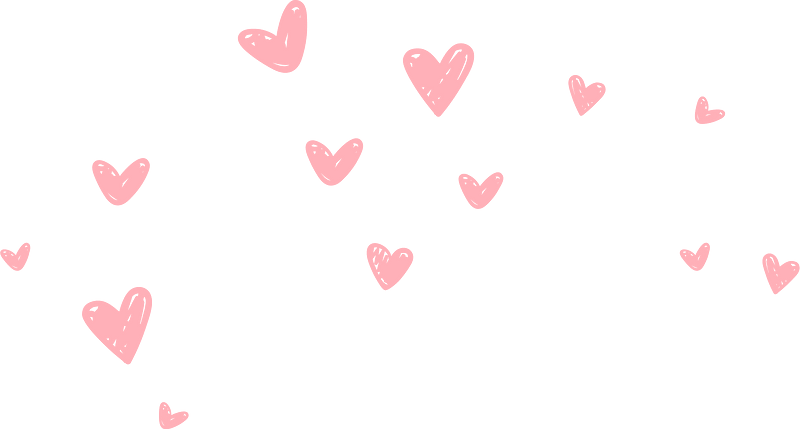
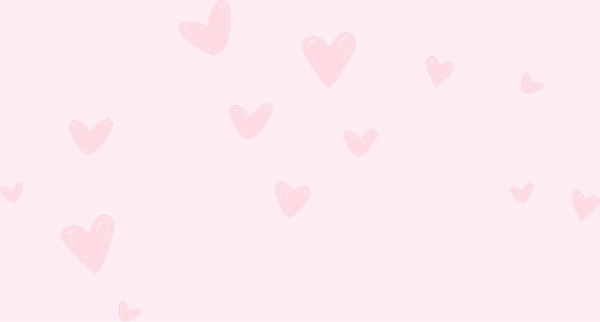
feat: change background way and add date to the counter

diff --git a/src/App.tsx b/src/App.tsx
@@ -8,33 +8,30 @@ export function App() {
       className="flex flex-col items-center h-screen px-10 py-10 bg-repeat-round bg-size-[600px]"
       style={{ backgroundImage: `url(${background})` }}
     >
-      <div className="fixed top-0 left-0 w-full h-full bg-primary-100 opacity-80"></div>
-      <div className="z-10">
-        <h1 className="text-2xl font-bold text-center text-primary-500/70 leading-none">
-          Nosso Contador
-        </h1>
-        <h2 className="text-5xl mb-10 text-center text-primary-500 leading-none font-bold">
-          Natalia&Iran
-        </h2>
+      <h1 className="text-2xl font-bold text-center text-primary-500/70 leading-none z-10">
+        Nosso Contador
+      </h1>
+      <h2 className="text-5xl mb-10 text-center text-primary-500 leading-none font-bold -mt-2">
+        Natalia&Iran
+      </h2>
 
-        <div className="flex flex-col gap-5">
-          <Counter
-            title="Pedido de Namoro"
-            startDate={new Date("2025-05-02T23:05:00")}
-          />
-          <Counter
-            title="Primeiro Beijo"
-            startDate={new Date("2025-04-13T00:30:00")}
-          />
-          <Counter
-            title="Primeiro Encontro"
-            startDate={new Date("2025-04-12T20:30:00")}
-          />
-          <Counter
-            title="Primeira Mensagem"
-            startDate={new Date("2025-03-28T23:36:00")}
-          />
-        </div>
+      <div className="flex flex-col gap-8">
+        <Counter
+          title="Pedido de Namoro"
+          startDate={new Date("2025-05-02T23:05:00")}
+        />
+        <Counter
+          title="Primeiro Beijo"
+          startDate={new Date("2025-04-13T00:30:00")}
+        />
+        <Counter
+          title="Primeiro Encontro"
+          startDate={new Date("2025-04-12T20:30:00")}
+        />
+        <Counter
+          title="Primeira Mensagem"
+          startDate={new Date("2025-03-28T23:36:00")}
+        />
       </div>
     </div>
   );

diff --git a/src/components/Counter.tsx b/src/components/Counter.tsx
@@ -38,8 +38,19 @@ export function Counter({ startDate, title }: CounterProps) {
 
   return (
     <div>
-      <strong className="text-xl font-bold block mb-1 text-primary-500">{title}</strong>
-      <div className="flex gap-2">
+      <strong className="text-xl font-bold block text-primary-500 leading-none">
+        {title}
+      </strong>
+      <span className="text-sm font-medium italic text-primary-600/60 block">
+        {startDate.toLocaleString(undefined, {
+          day: "2-digit",
+          month: "2-digit",
+          year: "2-digit",
+          hour: "2-digit",
+          minute: "2-digit",
+        })}
+      </span>
+      <div className="flex gap-2 mt-1.5">
         <CounterSection label="Dias" value={time.days} />
         <CounterSection label="Horas" value={time.hours} />
         <CounterSection label="Minutos" value={time.minutes} />
